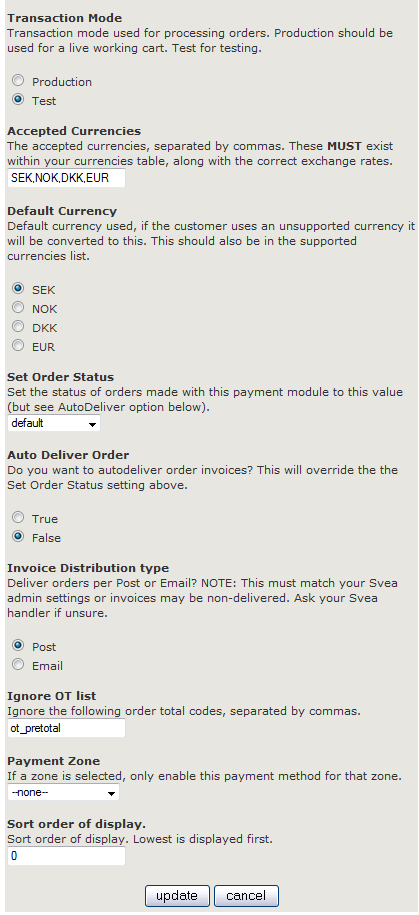
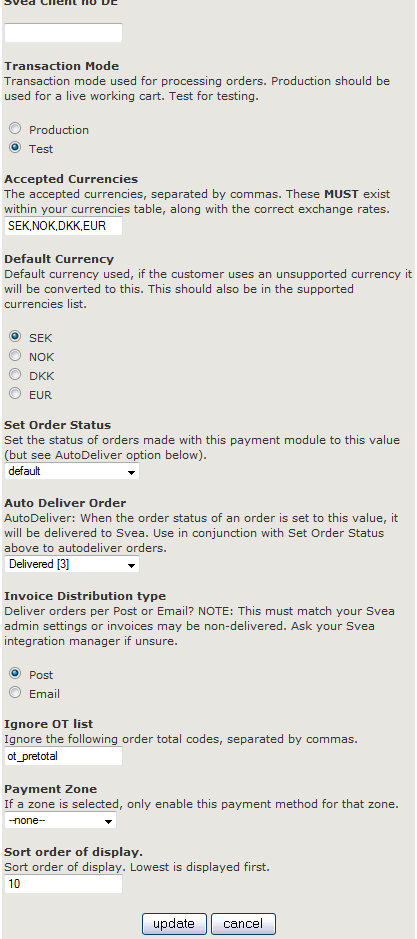
Updated documentation to reflect changes to invoice and admin settings and order administration capabilities.

Changed region(s): [[0.0, 0.0, 0.9976, 1.0], [0.6547, 0.0306, 0.9353, 0.0918]]

diff --git a/README.md b/README.md
@@ -1,8 +1,8 @@
 # Zen Cart - Svea payment module
-## Version 4.0.1
+## Version 4.1
 * Supports Zen Cart version 1.5.1 and 1.3.9
 
-This module supports Svea invoice and payment plan payments in Sweden, Finland, Norway, Denmark, Netherlands and Germany, as well as creditcard and direct bank payments from all countries.
+This module supports Svea invoice and payment plan payments in Sweden, Finland, Norway, Denmark, Netherlands and Germany, as well as creditcard and direct bank payments from all countries. It is also possible to perform basic Svea order administration actions by setting the order status in the Zen Cart order administration interface. The supported Svea administration actions are: Deliver and Cancel invoice and payment plan orders and Credit invoice orders.
 
 The module has been tested with Zen Cart and any pre-installed checkout, coupon, voucher and shipping modules, including the Svea invoice fee. The module has been updated to make use of the latest payment systems at Svea, and builds upon the included Svea php integration package.
 
@@ -59,9 +59,11 @@ In this example we'll first configure the Svea invoice payment method, instructi
 
 * _Default Currency_: If the customer ha an unsupported currency selected it will be converted to the default currency upon customer checkout. The default currency must also be present in the _Accepted Currencies_ list (above).
 
-* _Set Order Status_: The Zen Cart order status given to orders after the customer has completed checkout. This will be overridden by _Auto Deliver Order_, if set (see below).
+* _Set Order Status_: The Zen Cart order status given to orders after the customer has completed checkout.
 
-* _Auto Deliver Order_: If set to True, Svea invoices will automatically be delivered (sent out to) the customer. This means that you don't have to manually accept and deliver invoices via Svea's admin interface, which is the case if this is set to False.
+* _Auto Deliver Order_: Order invoices will be delivered (sent out) to the customer by Svea if an order's status is set to this status. This may be done manually through the Zen Cart order admin, or you may use the Set Over Status (above) to this and the order will be autodelivered upon creation.
+
+![Auto Deliver order settings] (https://github.com/sveawebpay/zencart-module/raw/develop/docs/image/autodeliver.PNG "Auto deliver settings")
 
 * _Invoice Distribution Type_: If _Auto Deliver Order_ (above) is set to true, this setting must match the corresponding setting in Svea's admin interface. Ask your Svea integration manager is unsure.
 
@@ -73,7 +75,7 @@ In this example we'll first configure the Svea invoice payment method, instructi
 
 * Finally, remember to _save_ your settings.
 
-![Invoice payment settings] (https://github.com/sveawebpay/zencart-module/raw/develop/docs/image/invoice_settings_2.PNG "method invoice settings 2")
+![Invoice payment settings] (https://github.com/sveawebpay/zencart-module/raw/develop/docs/image/invoice_settings_2.PNG "Method invoice settings 2")
 
 #### Next we set up the Svea Invoice handling fee (used by Svea Invoice payment method )
 
@@ -112,9 +114,9 @@ For the other Svea payment methods (payment plan, card payment and direct bank p
 
 * _Default Currency_: If the customer has an unsupported currency selected it will be converted to the default currency upon customer checkout. The default currency must also be present in the _Accepted Currencies_ list (above).
 
-* _Set Order Status_: The Zen Cart order status given to orders after the customer has completed checkout. This will be overridden by _Auto Deliver Order_, if set (see below).
+* _Set Order Status_: The Zen Cart order status given to orders after the customer has completed checkout.
 
-* _Auto Deliver Order_: If set to True, Svea invoices will automatically be delivered (sent out to) the customer. This means that you don't have to manually accept and deliver invoices via Svea's admin interface, which is the case if this is set to False. Payment plan invoices are always sent out by post.
+* _Auto Deliver Order_: Order payment plan will be delivered (sent out) to the customer by Svea if an order's status is set to this status. This may be done manually through the Zen Cart order admin, or you may use the Set Over Status (above) to this and the order will be autodelivered upon creation.
 
 * _Ignore OT list_: if you experience problems with i.e. incompatible order total modules, the module name(s) may be entered here and will then be ignored by the invoice payment module.
 
@@ -194,6 +196,38 @@ For the other Svea payment methods (payment plan, card payment and direct bank p
 
 * The recommended order total modules sort order is: sub-total (lowest), svea invoice fee, shipping, coupon, taxes, store credit, voucher and total.
 
+## Svea order administration actions
+It is possible to perform basic Svea order administration actions by setting the corresponding order status in the Zen Cart order administration interface. The supported Svea administration actions are: Deliver and Cancel invoice and payment plan orders and Credit invoice orders.
+
+To administrate an order and change its order status, go to admin/customers/orders, select the order and press the "edit" button:
+
+![Invoice payment settings] (https://github.com/sveawebpay/zencart-module/raw/develop/docs/image/admin_order_list.PNG "Zen Cart admin orders")
+
+### Deliver invoice or payment plan order
+When an order is marked as delivered by Svea, the invoice or payment plan will be created and delivered to the customer. The timing of this should usually correspond with the ordered goods being shipped out from your store to the customer. 
+
+Only orders being delivered in their entirety can be administrated through the Zen Cart interface, if you wish to partially deliver an order you have to administer the order through the Svea administration interface instead.
+
+To deliver an order, go to the order and select the status corresponding to the payment method Auto Deliver setting from the Status dropdown menu (here: "Delivered [3]"). You may also use the "Svea: Delivered [1703]" setting directly. Then press the "update" button: 
+
+![Deliver order] (https://github.com/sveawebpay/zencart-module/raw/develop/docs/image/deliver_order.PNG "Deliver order")
+
+The new order status will show up in the order status history along with a comment stating the Svea order id. The current order status will also show in the order list view. Note that a setting corresponding to the Auto Deliver setting will be converted to the "Svea: Delivered" status.
+
+### Cancel (close) invoice or payment plan order
+Use this if you wish to cancel a non-delivered invoice or payment plan order.
+
+![Cancel order] (https://github.com/sveawebpay/zencart-module/raw/develop/docs/image/close_order.PNG "Cancel order")
+
+### Credit invoice plan order
+Use this if you wish to credit a delivered invoice order in full.
+
+![Credit order] (https://github.com/sveawebpay/zencart-module/raw/develop/docs/image/credit_order.PNG "Credit order")
+
+Should you get an error message "WARNING: Credit invoice failed, status not changed. Error: The invoice to credit is not approved.", the invoice has not been approved by Svea. You may approve the invoice manually via the Svea administration interface. You may also turn on auto-approval of invoices, please contact your Svea integration manager to this effect.
+
+![Credit order] (https://github.com/sveawebpay/zencart-module/raw/develop/docs/image/credit_order_2.PNG "Credit order")
+
 ##Troubleshooting and recommendations
 Always check that you have set up your settings correctly before posting issues or contacting Svea support. Specifically, the following settings must all be in place for the payment modules to work correctly in the various countries:
 
@@ -209,11 +243,26 @@ Always check that you have set up your settings correctly before posting issues 
 
 * You are using the correct test case credentials when conducting test purchases.
 
+### General FAQ
+
+Q: What is this Svea administration interface that you talk about?
+A: This is where you administrate invoices and payment plans created from your customer orders. You should have been provided with login information and instructions from your Svea integration manager, please contact them if not so. 
+
+An example screenshot of the interface is found in the next section under "Invoice orders".
+
 ### Specific payment method problems FAQ
+
+#### Invoice orders
+
+Q: I receive the error message "WARNING: Credit invoice failed, status not changed. Error: The invoice to credit is not approved." when attempting to credit an order.
+A: The invoice has not been approved by Svea. You may approve the invoice manually via the Svea administration interface. You may also turn on auto-approval of invoices, please contact your Svea integration manager to this effect.
+
+![Svea administration interface] (https://github.com/sveawebpay/zencart-module/raw/develop/docs/image/svea_admin.PNG "Svea administration interface")
 
 (Intentionally left blank.)
 
 ### Release history
 
+* 4.1    (20131128) Able to perform basic Svea order administration actions by setting the order status in the Zen Cart order administration interface. Changes to AutoDeliver order settings for invoice and payment plan payment methods.
 * 4.0.1  (20131118) Fix for wrong client order id used in request.
 * 4.0.0  (20131112) Rewrite of module to build on Svea php integration package and support the new eu payment flow. Supports ZenCart 1.5.1.
